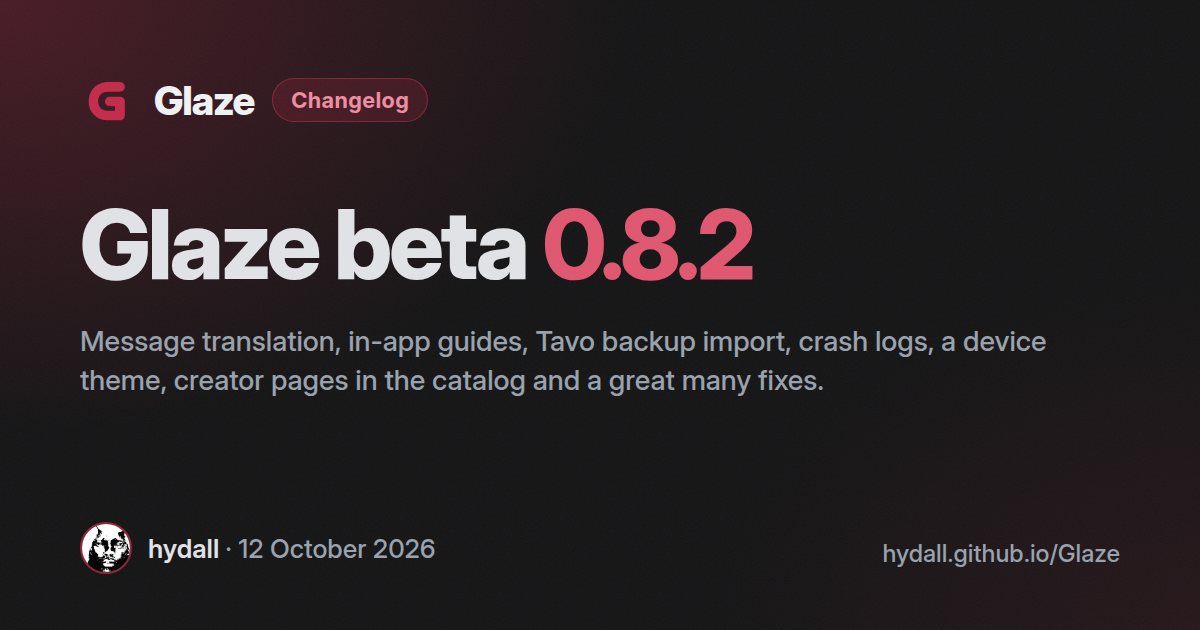
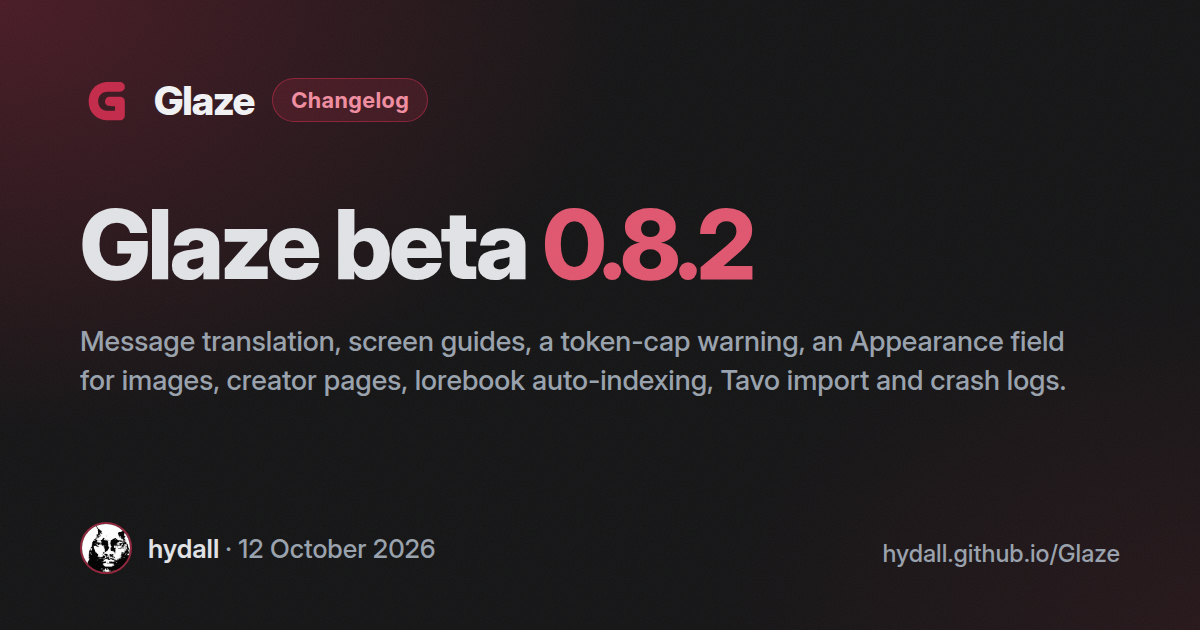
feat(site): match the 0.8.2 lead to the rewritten article

Changed region(s): [[0.0617, 0.5127, 0.8942, 0.6333]]

diff --git a/site/articles/0.8.2/index.html b/site/articles/0.8.2/index.html
@@ -11,7 +11,7 @@
     and sends a human on to the article in the app.
   -->
   <title>Glaze beta 0.8.2 — Glaze</title>
-  <meta name="description" content="Message translation, in-app guides, Tavo backup import, crash logs, a device theme, creator pages in the catalog and a great many fixes.">
+  <meta name="description" content="Message translation, screen guides, a token-cap warning, an Appearance field for images, creator pages, lorebook auto-indexing, Tavo import and crash logs.">
   <link rel="canonical" href="https://hydall.github.io/Glaze/articles/0.8.2/">
   <meta name="theme-color" content="#19191A">
 
@@ -19,8 +19,8 @@
   <meta property="og:site_name" content="Glaze">
   <meta property="og:url" content="https://hydall.github.io/Glaze/articles/0.8.2/">
   <meta property="og:title" content="Glaze beta 0.8.2">
-  <meta property="og:description" content="Message translation, in-app guides, Tavo backup import, crash logs, a device theme, creator pages in the catalog and a great many fixes.">
-  <meta property="og:image" content="https://hydall.github.io/Glaze/articles/0.8.2/og.png?v=1">
+  <meta property="og:description" content="Message translation, screen guides, a token-cap warning, an Appearance field for images, creator pages, lorebook auto-indexing, Tavo import and crash logs.">
+  <meta property="og:image" content="https://hydall.github.io/Glaze/articles/0.8.2/og.png?v=2">
   <meta property="og:image:width" content="1200">
   <meta property="og:image:height" content="630">
   <meta property="og:locale" content="en_US">
@@ -30,8 +30,8 @@
 
   <meta name="twitter:card" content="summary_large_image">
   <meta name="twitter:title" content="Glaze beta 0.8.2">
-  <meta name="twitter:description" content="Message translation, in-app guides, Tavo backup import, crash logs, a device theme, creator pages in the catalog and a great many fixes.">
-  <meta name="twitter:image" content="https://hydall.github.io/Glaze/articles/0.8.2/og.png?v=1">
+  <meta name="twitter:description" content="Message translation, screen guides, a token-cap warning, an Appearance field for images, creator pages, lorebook auto-indexing, Tavo import and crash logs.">
+  <meta name="twitter:image" content="https://hydall.github.io/Glaze/articles/0.8.2/og.png?v=2">
 
   <link rel="icon" href="../../assets/img/glaze.svg" type="image/svg+xml">
   <meta http-equiv="refresh" content="0; url=../../#articles/0.8.2">

diff --git a/site/assets/data.js b/site/assets/data.js
@@ -473,8 +473,8 @@ window.GLAZE = {
       download: 'v0.8.2',
       title: { ru: 'Glaze beta 0.8.2', en: 'Glaze beta 0.8.2' },
       lead: {
-        ru: 'Перевод сообщений, гиды по приложению, импорт бэкапа Tavo, журналы сбоев, тема устройства, страницы авторов в каталоге и очень много исправлений.',
-        en: 'Message translation, in-app guides, Tavo backup import, crash logs, a device theme, creator pages in the catalog and a great many fixes.',
+        ru: 'Перевод сообщений, гиды по экранам, предупреждение о лимите токенов, поле «Внешность» для картинок, страницы авторов, автоиндексация лорбуков, импорт из Tavo и журналы сбоев.',
+        en: 'Message translation, screen guides, a token-cap warning, an Appearance field for images, creator pages, lorebook auto-indexing, Tavo import and crash logs.',
       },
     },
     {

diff --git a/site/articles/0.8.2.en.md b/site/articles/0.8.2.en.md
@@ -1,4 +1,4 @@
-hey there, bandits
+hey there fellas
 
 straight to business
 
